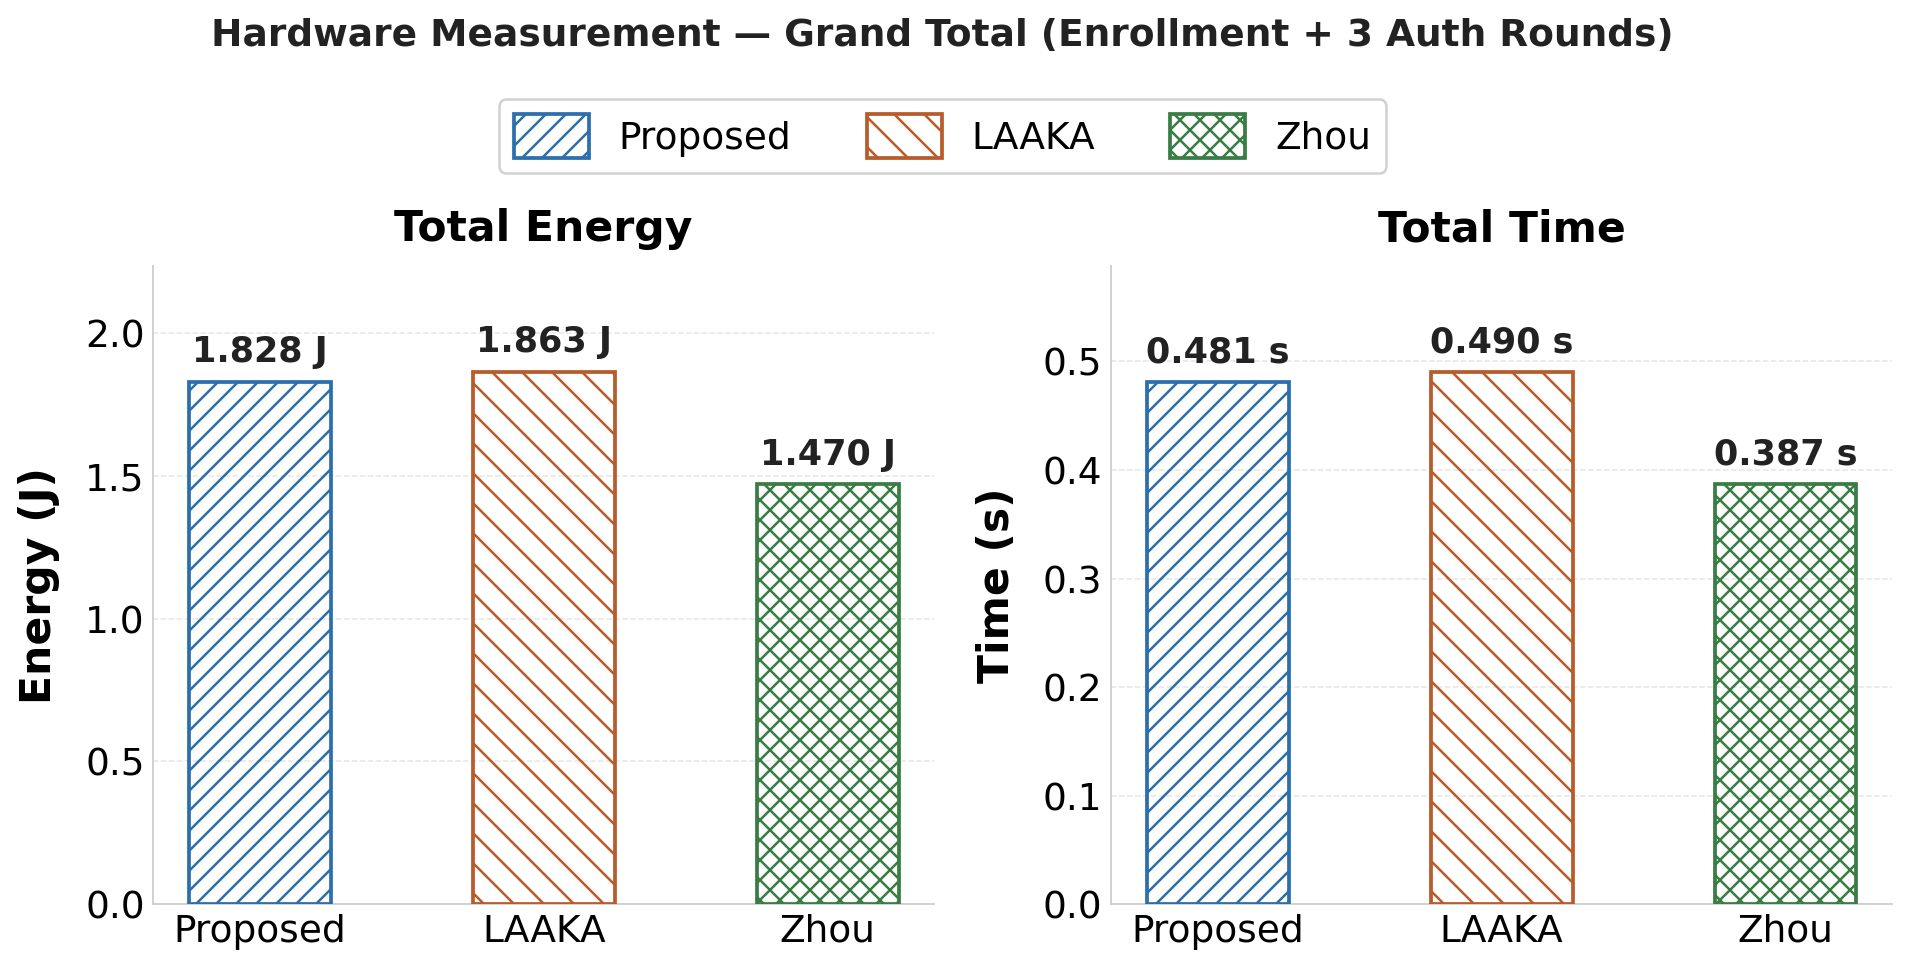
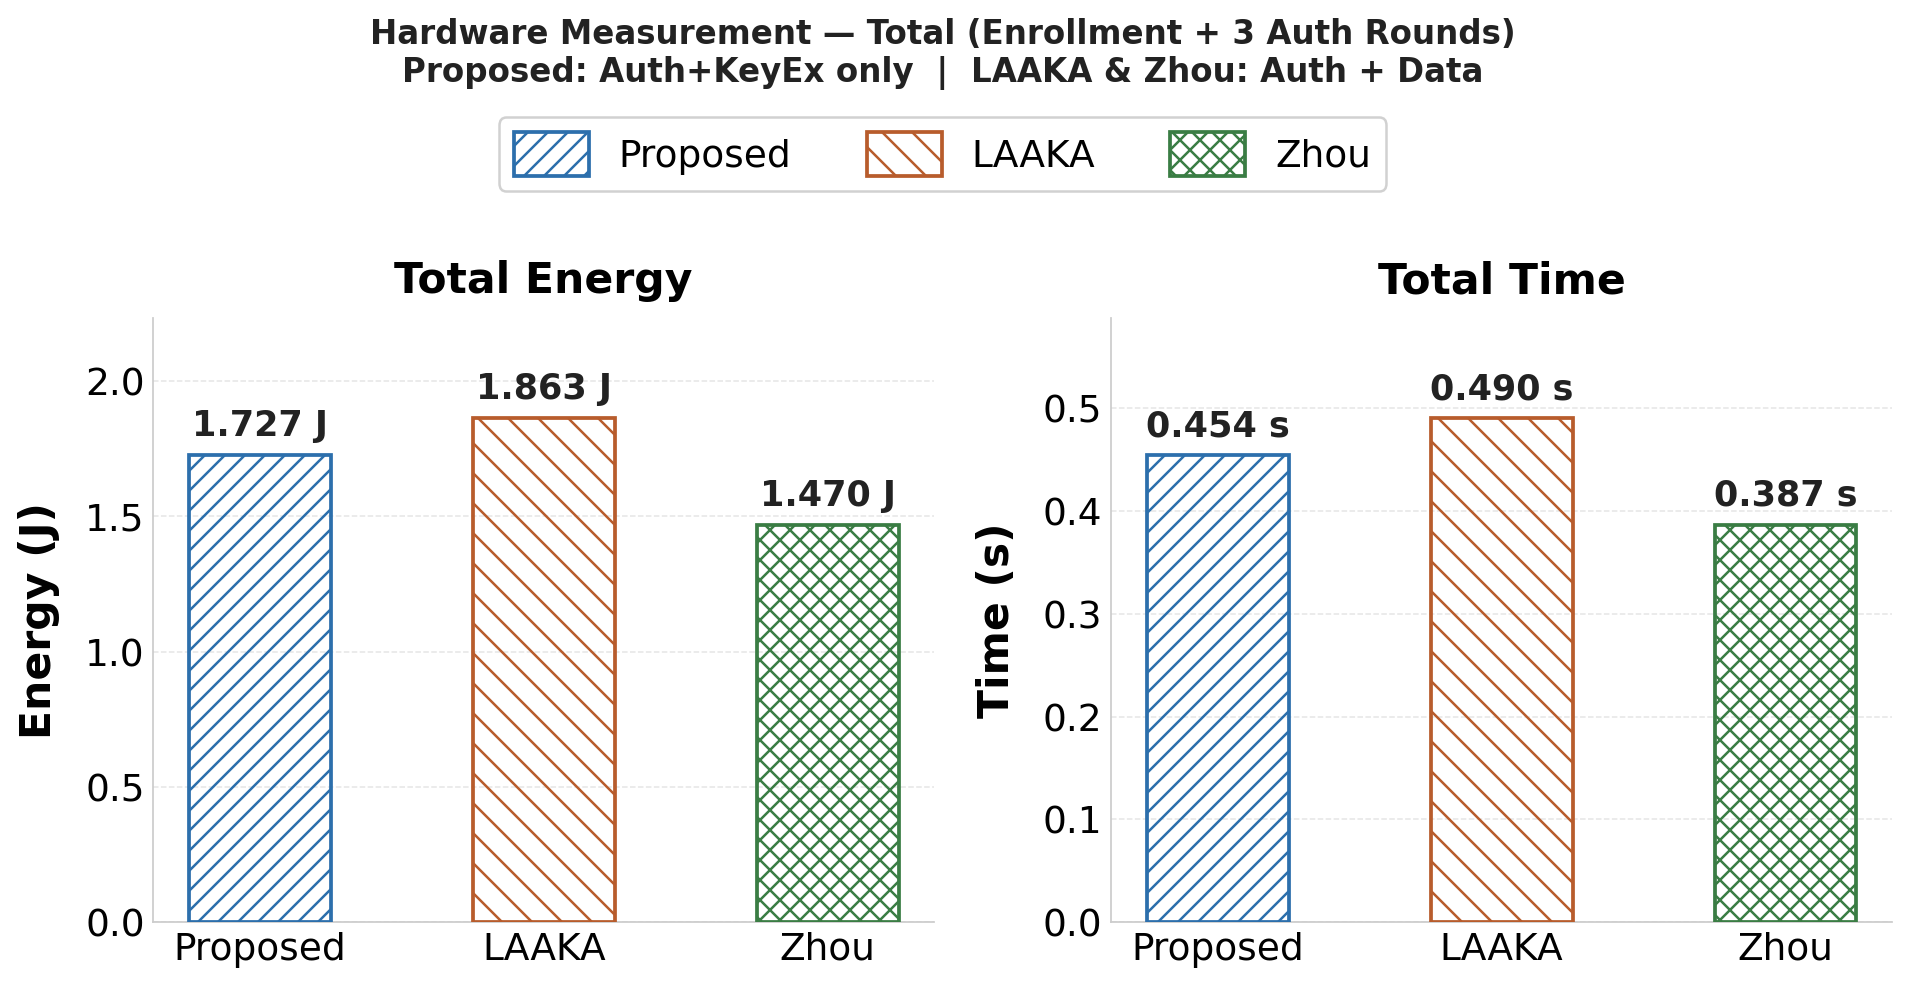
Update hw chart: exclude data exchange from Proposed totals
Proposed bar now shows Enrollment + 3x Auth+KeyEx only (no Data phase).
LAAKA and Zhou bars retain full totals (Enrollment + Auth + Data).

Updated values:
  Proposed: 1.727 J / 0.454 s  (was 1.828 J / 0.481 s)
  LAAKA:    1.863 J / 0.490 s  (unchanged)
  Zhou:     1.470 J / 0.387 s  (unchanged)

diff --git a/Hardware/plot_hw_comparison.py b/Hardware/plot_hw_comparison.py
@@ -24,13 +24,15 @@ os.makedirs(OUT_DIR, exist_ok=True)
 # Grand Total = Enrollment/Registration + Round1 + Round2 + Round3
 SCHEMES = ["Proposed", "LAAKA", "Zhou"]
 
-ENERGY_J = {          # Grand Total energy (J)
-    "Proposed": 1.8282,
+ENERGY_J = {
+    # Proposed: Enrollment + 3x Auth+KeyEx  (data exchange excluded)
+    # LAAKA / Zhou: full grand total (Enrollment + 3x Auth + 3x Data)
+    "Proposed": 1.7267,
     "LAAKA":    1.8628,
     "Zhou":     1.4695,
 }
-TIME_S = {            # Grand Total wall-clock time (s)
-    "Proposed": 0.4811,
+TIME_S = {
+    "Proposed": 0.4544,
     "LAAKA":    0.4902,
     "Zhou":     0.3867,
 }
@@ -133,8 +135,9 @@ with plt.rc_context(_STYLE):
     )
 
     fig.suptitle(
-        "Hardware Measurement — Grand Total (Enrollment + 3 Auth Rounds)",
-        fontsize=15, fontweight="bold", y=1.08, color="#222222",
+        "Hardware Measurement — Total (Enrollment + 3 Auth Rounds)\n"
+        "Proposed: Auth+KeyEx only  |  LAAKA & Zhou: Auth + Data",
+        fontsize=13, fontweight="bold", y=1.10, color="#222222",
     )
 
     fig.tight_layout()
